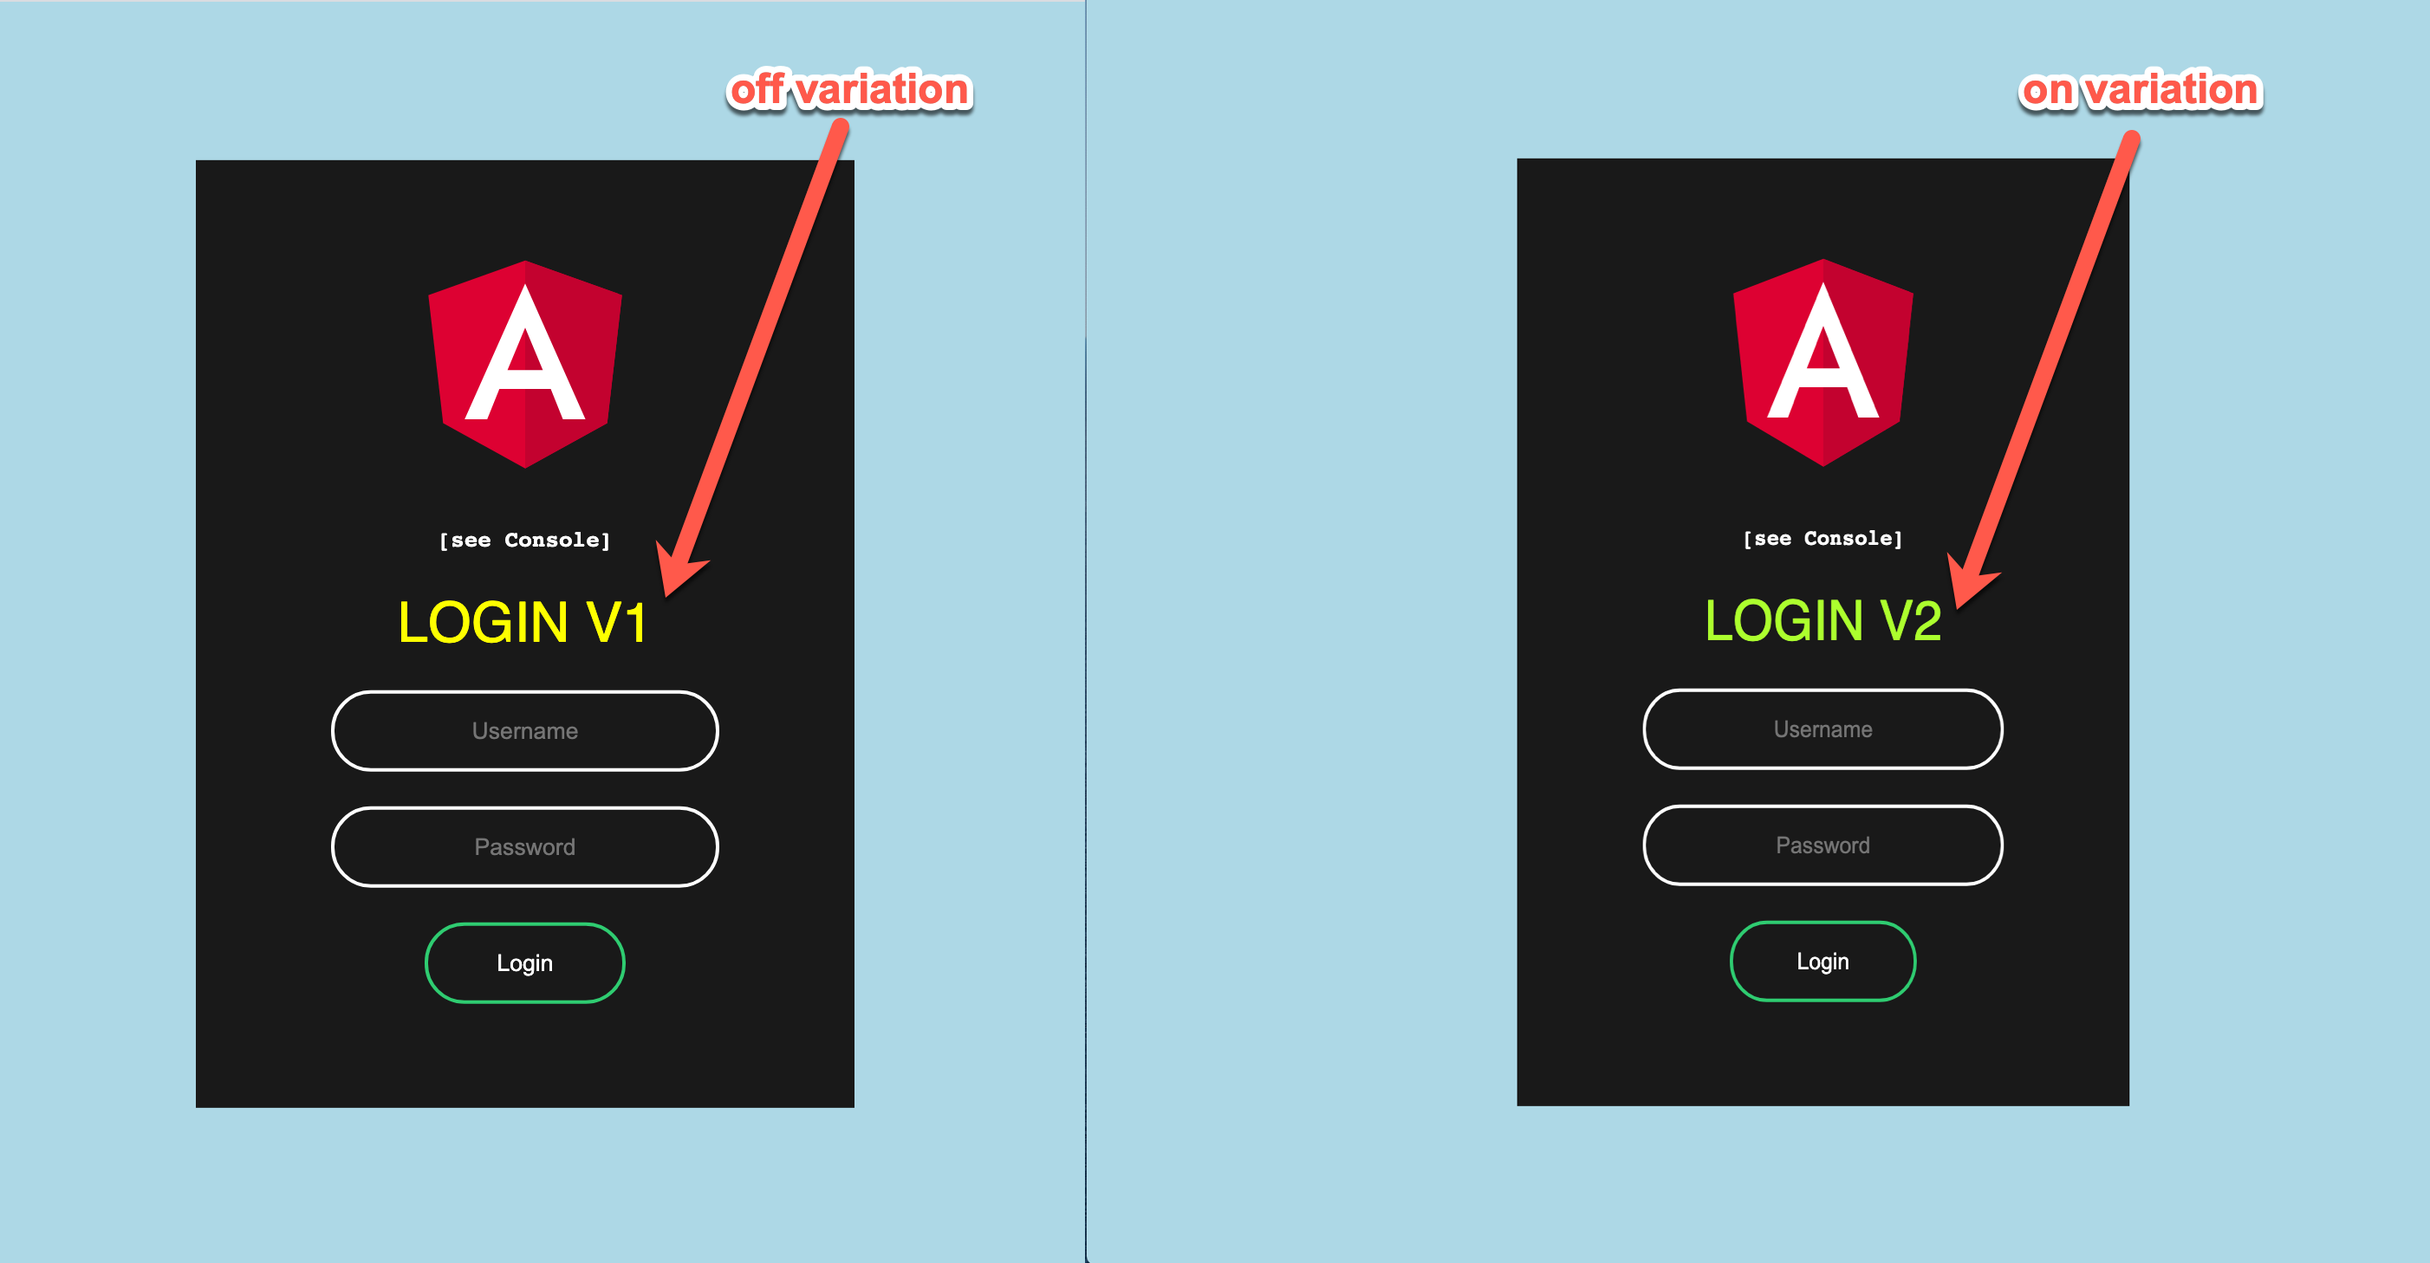
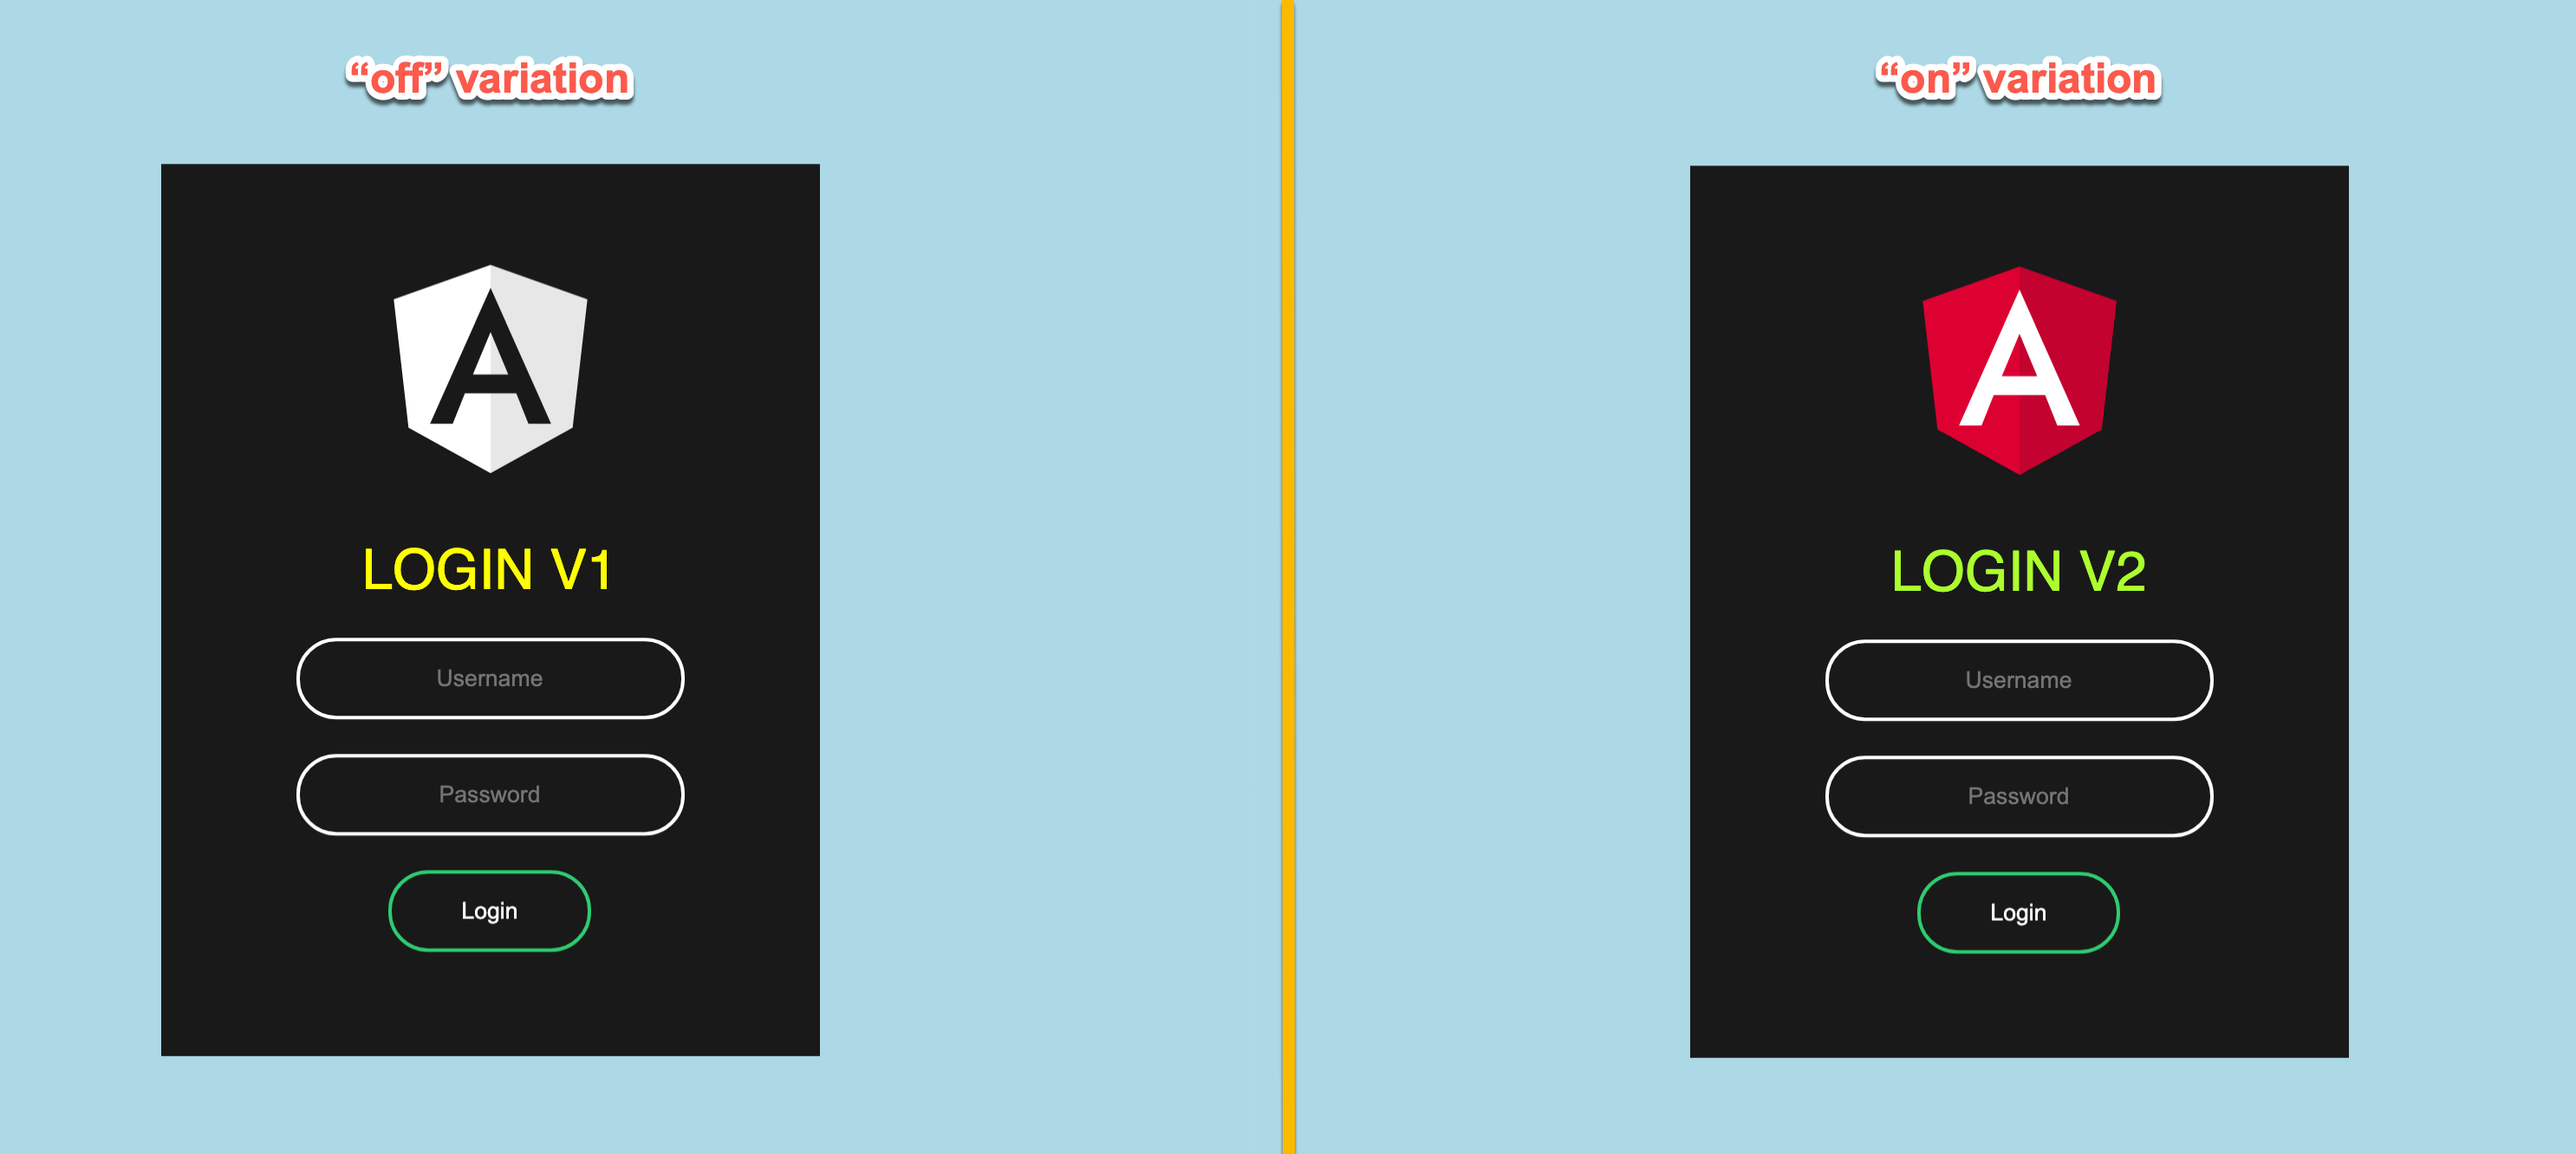
[minor] small improvement to make variation change more prominent

diff --git a/src/app/app.component.html b/src/app/app.component.html
@@ -1,15 +1,11 @@
-
 <form class="box" action="First.html" method="post">
-    <img src="https://angular.io/assets/images/logos/angular/angular.svg" />
-
-
-    <h4 class="dev">[see Console]</h4>
     <div *ngIf="show; else showVariation">
-       
-        <h1 id="LoginForm" class="v1">Login v2</h1>
+        <img src="https://angular.io/assets/images/logos/angular/angular.svg" />
+        <h1 id="LoginForm" class="v2">Login v2</h1>
     </div>
     <ng-template #showVariation>
-        <h1 id="LoginForm" class="v2">Login v1</h1>
+        <img src="https://angular.io/assets/images/logos/angular/angular_whiteTransparent.svg" />
+        <h1 id="LoginForm" class="v1">Login v1</h1>
     </ng-template>
 
     <input type="text" name="" placeholder="Username">

diff --git a/src/app/app.component.ts b/src/app/app.component.ts
@@ -1,5 +1,4 @@
 import { Component } from "@angular/core";
-
 import { UnlaunchService } from "./unlaunch.service";
 
 @Component({
